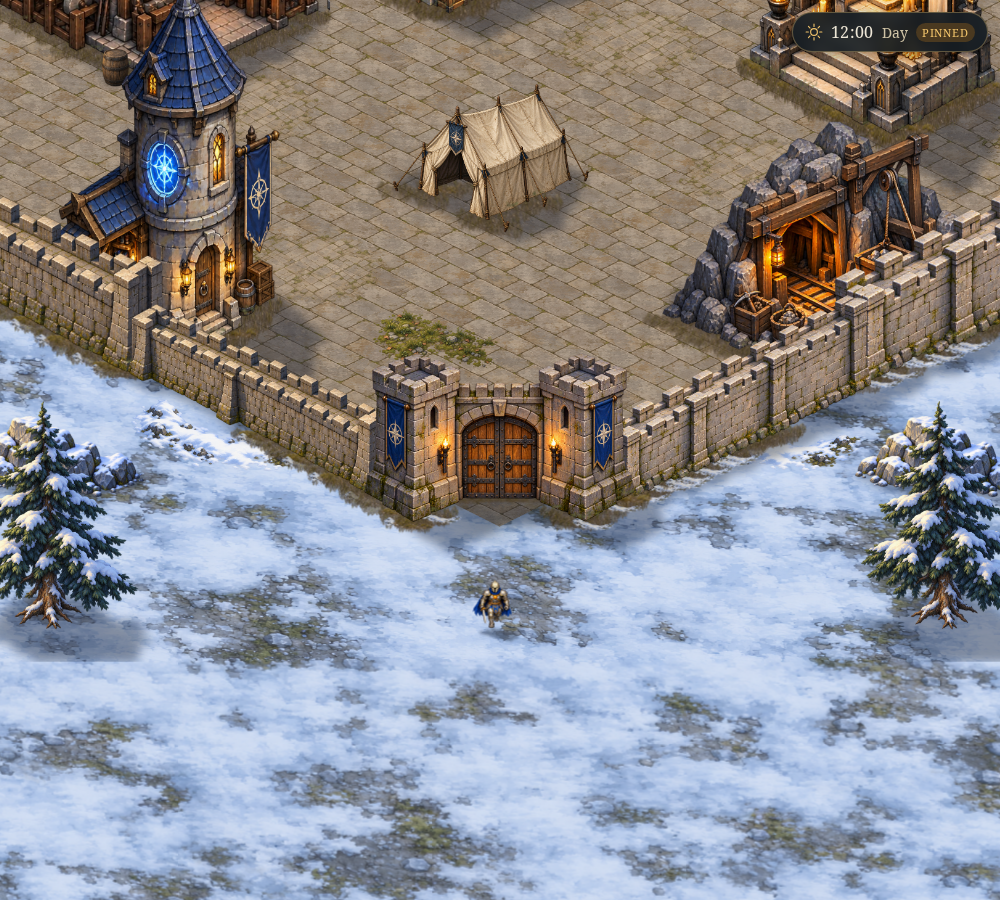
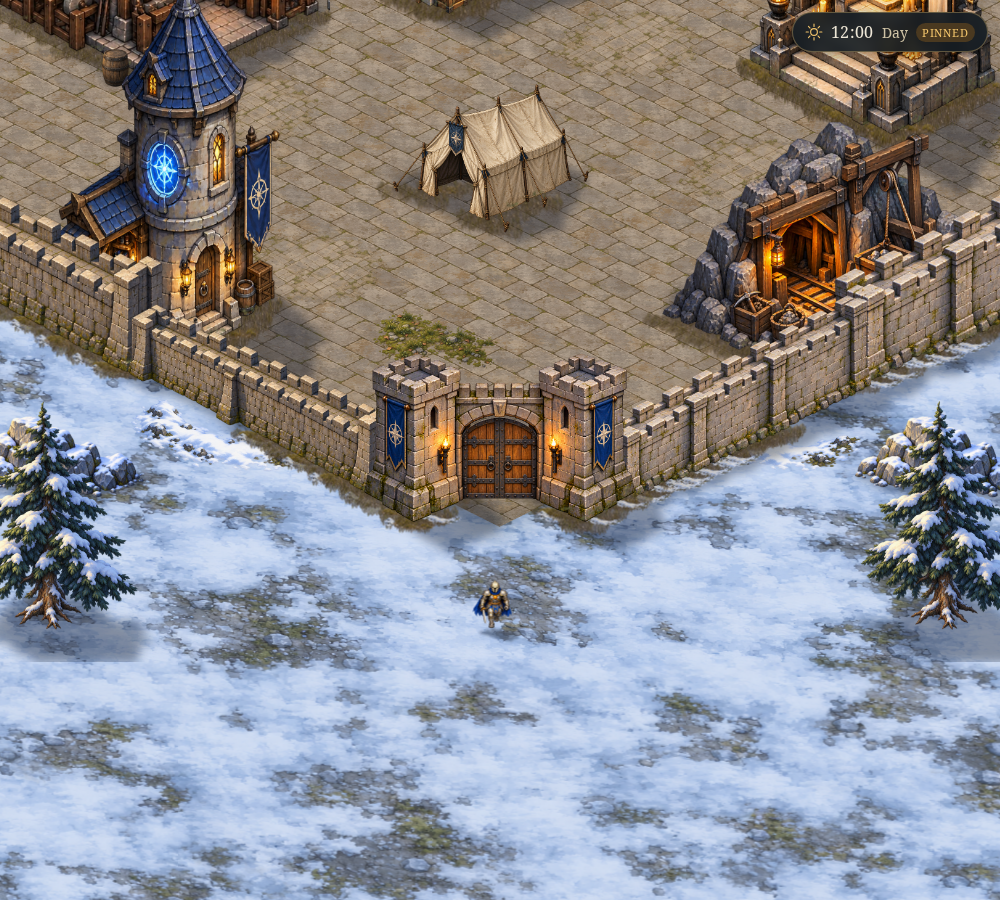
Animate gate leaves without rebuilding the world or lighting

diff --git a/src/stronghold/world-view.ts b/src/stronghold/world-view.ts
@@ -5,15 +5,16 @@ import {buildings,type Building,type State} from './economy';
 import {createLighting} from './lighting';
 import {createHero} from './hero';
 import {setGateOpen} from './navigation';
+import {createGateDoors} from './gate-doors';
 import type {Walk} from './controls';
 import type {Progress} from '../app/loader';
 export async function createWorldView(canvas:HTMLCanvasElement,onSelect:(id:Building)=>void,direction:()=>Walk,progress:Progress=()=>{}){
  const ctx=canvas.getContext('2d')!,environment=environmentSprites(),images=new Map<string,HTMLImageElement>();
- let gateOpen=false;
- const spriteFile=(id:Building,level:number)=>id==='forge'?`/fortress-ui/forge-${level}.webp`:id==='gate'?`/modular-stronghold/v2/${gateOpen?'gateway-open':'gateway-grand'}.png`:`/assets/${slots[id].asset}.png`;
+ let gateOpen=false,gatePassable=false;
+ const spriteFile=(id:Building,level:number)=>id==='forge'?`/fortress-ui/forge-${level}.webp`:id==='gate'?'/modular-stronghold/v2/gateway-open.png':`/assets/${slots[id].asset}.png`;
  const paving='/modular-stronghold/v2/paving-warm-texture.png',snow='/modular-stronghold/v2/snow-soft-texture.png';
  // Loading-screen steps: every artwork file, then the hero, then the first world raster.
- const files=[...new Set([FOUNDATION_SOIL,FOUNDATION_MOSS,paving,snow,'/modular-stronghold/v2/gateway-open.png',...environment.map(p=>p.file),...buildings.flatMap(b=>[1,2,3].map(l=>spriteFile(b,l)))])],steps=files.length+2;let loaded=0;
+ const files=[...new Set([FOUNDATION_SOIL,FOUNDATION_MOSS,paving,snow,'/modular-stronghold/v2/gateway-grand.png',...environment.map(p=>p.file),...buildings.flatMap(b=>[1,2,3].map(l=>spriteFile(b,l)))])],steps=files.length+2;let loaded=0;
  progress(0,steps,'Loading artwork');
  await Promise.all(files.map(async file=>{const image=new Image();image.src=file;await image.decode();images.set(file,image);progress(++loaded,steps,'Loading artwork');}));
  let w=0,h=0,dpr=1,scale=1,cx=WORLD.width/2,cy=385,selected:Building|null=null,levels:State['levels']|undefined;
@@ -93,7 +94,7 @@ export async function createWorldView(canvas:HTMLCanvasElement,onSelect:(id:Buil
    const front=d<86?774+(d-36)*.42:795-(d-86)*.62;
    cols.push({x:577+side*d,w:3,back:front-34,front,height:110});
   }
-  if(!gateOpen)for(let d=-35;d<=35;d+=3)cols.push({x:577+d,w:3,back:763,front:775,height:105});
+  if(!gatePassable)for(let d=-35;d<=35;d+=3)cols.push({x:577+d,w:3,back:763,front:775,height:105});
   return cols;
  }
  function footprint(p:(typeof objects)[number]){
@@ -133,6 +134,8 @@ export async function createWorldView(canvas:HTMLCanvasElement,onSelect:(id:Buil
  }
  // The player's hero walks the court in its own layer over the world; the camera eases after it.
  progress(loaded,steps,'Waking the hero');
+ const doors=createGateDoors(viewport,images.get('/modular-stronghold/v2/gateway-grand.png')!,open=>{gatePassable=open;setGateOpen(open);hero.setScene(objects);});
+ lighting.subscribe(state=>doors.setTint(state.ambient));
  const hero=await createHero<(typeof objects)[number]>({layer:viewport,lightmap:viewport.querySelector<HTMLCanvasElement>('#world-lightmap')!,surface,footprint:p=>p.id==='gate'?gateFootprint():footprint(p),sun:lighting.sun,direction,follow});hero.setScene(objects);progress(++loaded,steps,'Raising the Stronghold');
  // Everything standing above the ground shadows, at surface resolution with transparency.
  const uprights=document.createElement('canvas');uprights.id='world-uprights';uprights.width=surface.width;uprights.height=surface.height;
@@ -146,7 +149,7 @@ export async function createWorldView(canvas:HTMLCanvasElement,onSelect:(id:Buil
  }
  function draw(){
   if(!w||!h)return;if(dirty)paintWorld();const x=w/2-cx*scale,y=h/2-cy*scale;
-  const placement=`translate3d(${x+left*scale}px,${y+top*scale}px,0) scale(${scale})`;surface.style.transform=placement;lighting.place(placement);hero.place(x,y,scale);
+  const placement=`translate3d(${x+left*scale}px,${y+top*scale}px,0) scale(${scale})`;surface.style.transform=placement;lighting.place(placement);doors.place(x,y,scale);hero.place(x,y,scale);
   // Wrap a repeated GPU layer rather than repainting an infinite background.
   const sx=((x%(periodX*scale))+periodX*scale)%(periodX*scale)-periodX*scale;
   const sy=((y%(periodY*scale))+periodY*scale)%(periodY*scale)-periodY*scale;
@@ -177,14 +180,14 @@ export async function createWorldView(canvas:HTMLCanvasElement,onSelect:(id:Buil
  canvas.onpointerdown=e=>{stopGlide();canvas.setPointerCapture(e.pointerId);held.set(e.pointerId,{x:e.clientX,y:e.clientY});down={x:e.clientX,y:e.clientY};moved=false;};
  canvas.onpointermove=e=>{const prev=held.get(e.pointerId);if(!prev)return;const points=[...held.values()],before=points.length===2?Math.hypot(points[0].x-points[1].x,points[0].y-points[1].y):0;cx-=(e.clientX-prev.x)/scale;cy-=(e.clientY-prev.y)/scale;held.set(e.pointerId,{x:e.clientX,y:e.clientY});if(Math.hypot(e.clientX-down.x,e.clientY-down.y)>6)moved=true;if(before){const p=[...held.values()];scale=Math.max(.35,Math.min(2.2,scale*Math.hypot(p[0].x-p[1].x,p[0].y-p[1].y)/before));moved=true;}requestDraw();};
  const masks=new Map<string,{data:Uint8ClampedArray;width:number;height:number}>();
- function hitBuilding(id:Building,x:number,y:number){const s=slots[id],c=calibration(id),file=spriteFile(id,levels?.[id]||1),image=images.get(file)!,height=image.height*s.width/image.width,dx=x-s.x,dy=(y-s.y-c.shear*dx)/c.vertical,px=(dx+s.width/2)/s.width,py=(dy+height*s.pivot)/height;if(px<0||py<0||px>=1||py>=1)return false;let mask=masks.get(file);if(!mask){const sample=document.createElement('canvas');sample.width=192;sample.height=Math.ceil(192*image.height/image.width);const sc=sample.getContext('2d')!;sc.drawImage(image,0,0,sample.width,sample.height);mask={data:sc.getImageData(0,0,sample.width,sample.height).data,width:sample.width,height:sample.height};masks.set(file,mask);}return mask.data[(Math.floor(py*mask.height)*mask.width+Math.floor(px*mask.width))*4+3]>40;}
+ function hitBuilding(id:Building,x:number,y:number){const s=slots[id],c=calibration(id),file=id==='gate'&&!gatePassable?'/modular-stronghold/v2/gateway-grand.png':spriteFile(id,levels?.[id]||1),image=images.get(file)!,height=image.height*s.width/image.width,dx=x-s.x,dy=(y-s.y-c.shear*dx)/c.vertical,px=(dx+s.width/2)/s.width,py=(dy+height*s.pivot)/height;if(px<0||py<0||px>=1||py>=1)return false;let mask=masks.get(file);if(!mask){const sample=document.createElement('canvas');sample.width=192;sample.height=Math.ceil(192*image.height/image.width);const sc=sample.getContext('2d')!;sc.drawImage(image,0,0,sample.width,sample.height);mask={data:sc.getImageData(0,0,sample.width,sample.height).data,width:sample.width,height:sample.height};masks.set(file,mask);}return mask.data[(Math.floor(py*mask.height)*mask.width+Math.floor(px*mask.width))*4+3]>40;}
  canvas.onpointerup=e=>{held.delete(e.pointerId);if(moved)return;const x=cx+(e.clientX-w/2)/scale,y=cy+(e.clientY-h/2)/scale;const hit=[...buildings].sort((a,b)=>slots[b].y-slots[a].y).find(id=>hitBuilding(id,x,y));if(hit)onSelect(hit);};
  canvas.onpointercancel=()=>{held.clear();moved=true;};canvas.onwheel=e=>{e.preventDefault();stopGlide();const old=scale;scale=Math.max(.35,Math.min(2.2,scale*Math.exp(-e.deltaY*.001)));cx+=(e.clientX-w/2)*(1/old-1/scale);cy+=(e.clientY-h/2)*(1/old-1/scale);requestDraw();};
  function updateGate(hx:number,hy:number){
   // Ground-space distance to the threshold. Hysteresis prevents flickering at the edge.
   const near=Math.abs(hx-577)<(gateOpen?65:48)&&Math.abs(hy-770)<(gateOpen?88:66);
   if(near===gateOpen)return;
-  gateOpen=near;setGateOpen(near);objects=makeObjects();lighting.setScene(objects);hero.setScene(objects);dirty=true;requestDraw();
+  gateOpen=near;doors.setOpen(near);
   canvas.dataset.gate=near?'open':'closed';
  }
  canvas.dataset.gate='closed';setGateOpen(false);updateGate(hero.position().x,hero.position().y);

diff --git a/src/stronghold/gate-doors.ts b/src/stronghold/gate-doors.ts
@@ -1,0 +1,31 @@
+/** Only the two door leaves animate. The stone gateway stays in the cached world. */
+export function createGateDoors(layer:HTMLElement,image:HTMLImageElement,onPassable:(open:boolean)=>void){
+ const width=270,height=image.height*width/image.width,canvas=document.createElement('div');
+ canvas.id='world-gate-doors';const resolutionWidth=540,resolutionHeight=Math.ceil(height*2);
+ canvas.style.cssText=`position:absolute;left:0;top:0;width:${width}px;height:${height}px;transform-origin:0 0;pointer-events:none;will-change:transform`;
+ layer.append(canvas);
+ // Each leaf is clipped to its own half of the arched doorway, excluding the masonry.
+ const leaves=[-1,1].map(side=>{
+  const raw=document.createElement('canvas');raw.width=resolutionWidth;raw.height=resolutionHeight;
+  const r=raw.getContext('2d')!;r.scale(2,2);r.beginPath();
+  if(side<0){r.moveTo(97,145);r.lineTo(97,87);r.bezierCurveTo(97,75,116,65,135,64);r.lineTo(135,145);}
+  else{r.moveTo(135,145);r.lineTo(135,64);r.bezierCurveTo(154,65,173,75,173,87);r.lineTo(173,145);}
+  r.closePath();r.clip();r.drawImage(image,0,0,width,height);
+  const tinted=document.createElement('canvas');tinted.width=raw.width;tinted.height=raw.height;
+  tinted.style.cssText=`position:absolute;left:0;top:0;width:${width}px;height:${height}px;transform-origin:${side<0?97:173}px 0;will-change:transform`;canvas.append(tinted);
+  return {side,raw,tinted};
+ });
+ let progress=0,target=0,frame=0,last=0,passable=false,tint='';
+ function paint(){
+  const eased=progress*progress*(3-2*progress),angle=eased*Math.PI*.49;
+  for(const {side,tinted} of leaves)tinted.style.transform=`matrix(${Math.cos(angle)},${side*.16*Math.sin(angle)},0,1,0,0)`;
+  canvas.dataset.progress=progress.toFixed(3);canvas.dataset.state=progress===target?(target?'open':'closed'):(target?'opening':'closing');
+  const next=progress>=.8;if(next!==passable){passable=next;onPassable(next);}
+ }
+ function tick(now:number){const dt=last?Math.min(50,now-last):16;last=now;progress=Math.max(0,Math.min(1,progress+(target?1:-1)*dt/700));paint();if(progress!==target)frame=requestAnimationFrame(tick);else{frame=0;last=0;}}
+ function setTint(rgb:number[]){const key=rgb.join();if(key===tint)return;tint=key;
+  for(const {raw,tinted} of leaves){const t=tinted.getContext('2d')!;t.globalCompositeOperation='copy';t.drawImage(raw,0,0);t.globalCompositeOperation='multiply';t.fillStyle=`rgb(${rgb.map(v=>Math.round(v*255))})`;t.fillRect(0,0,tinted.width,tinted.height);t.globalCompositeOperation='destination-in';t.drawImage(raw,0,0);t.globalCompositeOperation='source-over';}paint();
+ }
+ setTint([1,1,1]);
+ return {setTint,setOpen(open:boolean){target=open?1:0;if(!frame&&progress!==target)frame=requestAnimationFrame(tick);},place(x:number,y:number,scale:number){canvas.style.transform=`translate3d(${x+442*scale}px,${y+(790-height*.97)*scale}px,0) scale(${scale})`;}};
+}
